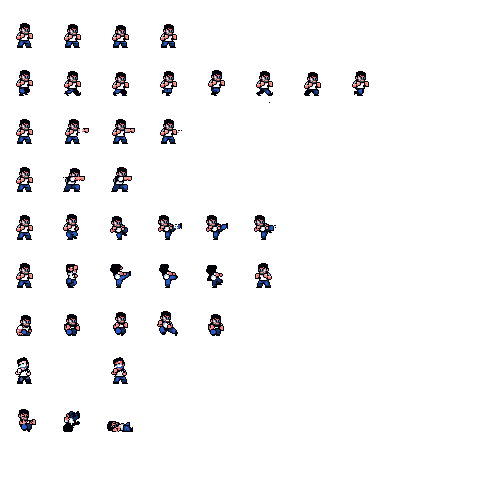
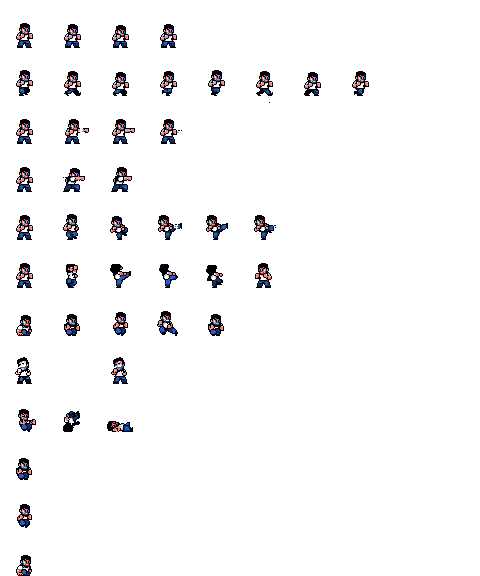
feat: add player jumping

diff --git a/src/entities/player.cpp b/src/entities/player.cpp
@@ -84,13 +84,20 @@ void player_update(Entity& p, Game& g) {
     const auto& in      = g.input;
     const auto& in_prev = g.input_prev;
 
+    if (input_pressed(in.jump, in_prev.jump)) {
+        if (!p.animation_playing || p.animation_loop) {
+            start_animation(p, (u32)Player_State::Jump, false, 150);
+            g.input.jump = false;
+        }
+    }
+
     if (input_pressed(in.punch, in_prev.punch)) {
         if (!p.animation_playing || p.animation_loop) {
             if (g.input.last_punch_was_left) {
-                start_animation(p, (u32)Player_Anim::Punching_Right, false, 50);
+                start_animation(p, (u32)Player_State::Punching_Right, false, 50);
                 g.input.last_punch_was_left = false;
             } else {
-                start_animation(p, (u32)Player_Anim::Punching_Left, false, 50);
+                start_animation(p, (u32)Player_State::Punching_Left, false, 50);
                 g.input.last_punch_was_left = true;
             }
         }
@@ -100,19 +107,19 @@ void player_update(Entity& p, Game& g) {
         if (!p.animation_playing || p.animation_loop) {
             switch (g.input.last_kick) {
                 case Kick_State::Drop: {
-                    start_animation(p, (u32)Player_Anim::Kicking_Drop, false, 80);
+                    start_animation(p, (u32)Player_State::Kicking_Drop, false, 80);
                     g.input.last_kick = Kick_State::Left;
                     break;
                 }
 
                 case Kick_State::Left: {
-                    start_animation(p, (u32)Player_Anim::Kicking_Left, false, 50);
+                    start_animation(p, (u32)Player_State::Kicking_Left, false, 50);
                     g.input.last_kick = Kick_State::Right;
                     break;
                 }
 
                 case Kick_State::Right: {
-                    start_animation(p, (u32)Player_Anim::Kicking_Right, false, 50);
+                    start_animation(p, (u32)Player_State::Kicking_Right, false, 50);
                     g.input.last_kick = Kick_State::Drop;
                     break;
                 }
@@ -188,14 +195,14 @@ void player_update(Entity& p, Game& g) {
 
     if (!p.animation_playing || p.animation_loop) {
         if (is_moving) {
-            if (p.default_anim != (u32)Player_Anim::Running) {
-                p.default_anim = (u32)Player_Anim::Running;
-                start_animation(p, (u32)Player_Anim::Running, true);
+            if (p.default_anim != (u32)Player_State::Running) {
+                p.default_anim = (u32)Player_State::Running;
+                start_animation(p, (u32)Player_State::Running, true);
             }
         } else {
-            if (p.default_anim != (u32)Player_Anim::Standing) {
-                p.default_anim = (u32)Player_Anim::Standing;
-                start_animation(p, (u32)Player_Anim::Standing, true);
+            if (p.default_anim != (u32)Player_State::Standing) {
+                p.default_anim = (u32)Player_State::Standing;
+                start_animation(p, (u32)Player_State::Standing, true);
             }
         }
     }

diff --git a/src/main.cpp b/src/main.cpp
@@ -96,9 +96,9 @@ internal bool init() {
         player.sprite_frame_w        = 48;
         player.sprite_frame_h        = 48;
         player.collision_box_offsets = {-sprite_frame_w/7, -4, 2*sprite_frame_w/7, 4};
-        player.shadow_offsets         = {-7, -1, 14, 2};
-        player.default_anim          = (u32)Player_Anim::Standing;
-        start_animation(player, (u32)Player_Anim::Standing, true);
+        player.shadow_offsets        = {-7, -1, 14, 2};
+        player.default_anim          = (u32)Player_State::Standing;
+        start_animation(player, (u32)Player_State::Standing, true);
         g.entities.push_back(player);
         g.idx_player = g.entities.size() - 1;
     }
@@ -207,12 +207,13 @@ internal void draw(const Game& g) {
 internal void handle_input(const SDL_Event& e) {
     if (e.type == SDL_EVENT_KEY_DOWN) {
         switch (e.key.key) {
-            case SDLK_S: g.input.left  = true; break;
-            case SDLK_F: g.input.right = true; break;
-            case SDLK_E: g.input.up    = true; break;
-            case SDLK_D: g.input.down  = true; break;
-            case SDLK_J: g.input.punch = true; break;
-            case SDLK_K: g.input.kick  = true; break;
+            case SDLK_S:     g.input.left  = true; break;
+            case SDLK_F:     g.input.right = true; break;
+            case SDLK_E:     g.input.up    = true; break;
+            case SDLK_D:     g.input.down  = true; break;
+            case SDLK_J:     g.input.punch = true; break;
+            case SDLK_K:     g.input.kick  = true; break;
+            case SDLK_SPACE: g.input.jump  = true; break;
         }
     }
 

diff --git a/src/entities/player.h b/src/entities/player.h
@@ -5,17 +5,22 @@
 #include "../game.h"
 #include "entity.h"
 
-enum struct Player_Anim : u32 {
-    Standing       = 0,
-    Running        = 1,
-    Punching_Left  = 2,
-    Punching_Right = 3,
-    Kicking_Left   = 4,
-    Kicking_Right  = 5,
-    Kicking_Drop   = 6,
-    Got_Hit        = 7,
-    Fallover       = 8
+enum struct Player_State : u32 {
+    Standing,
+    Running,
+    Punching_Left,
+    Punching_Right,
+    Kicking_Left,
+    Kicking_Right,
+    Kicking_Drop,
+    Got_Hit,
+    Fallover,
+    Takeoff,
+    Jump,
 };
+
+static_assert((u32)Player_State::Standing == 0);
+static_assert((u32)Player_State::Running  == 1);
 
 void start_animation(Entity& e, u32 anim_idx, bool should_loop = false, u64 frame_time = 100);
 void player_update(Entity& p, Game& g);

diff --git a/src/game.h b/src/game.h
@@ -19,6 +19,7 @@ struct Input_State {
     bool down  = false;
     bool punch = false;
     bool kick  = false;
+    bool jump  = false;
 
     Kick_State last_kick     = Kick_State::Left;
     bool last_punch_was_left = true;
@@ -33,7 +34,7 @@ struct Game {
     Img bg;
     Img entity_shadow;
 
-    static constexpr u32 sprite_player_frames[] = { 4, 8, 4, 3, 6, 6, 5, 3, 3, 0 };
+    static constexpr u32 sprite_player_frames[] = { 4, 8, 4, 3, 6, 6, 5, 3, 3, 1, 1, 1 };
     Sprite sprite_player = {
         .img                     = {},
         .max_frames_in_row_count = 10,
